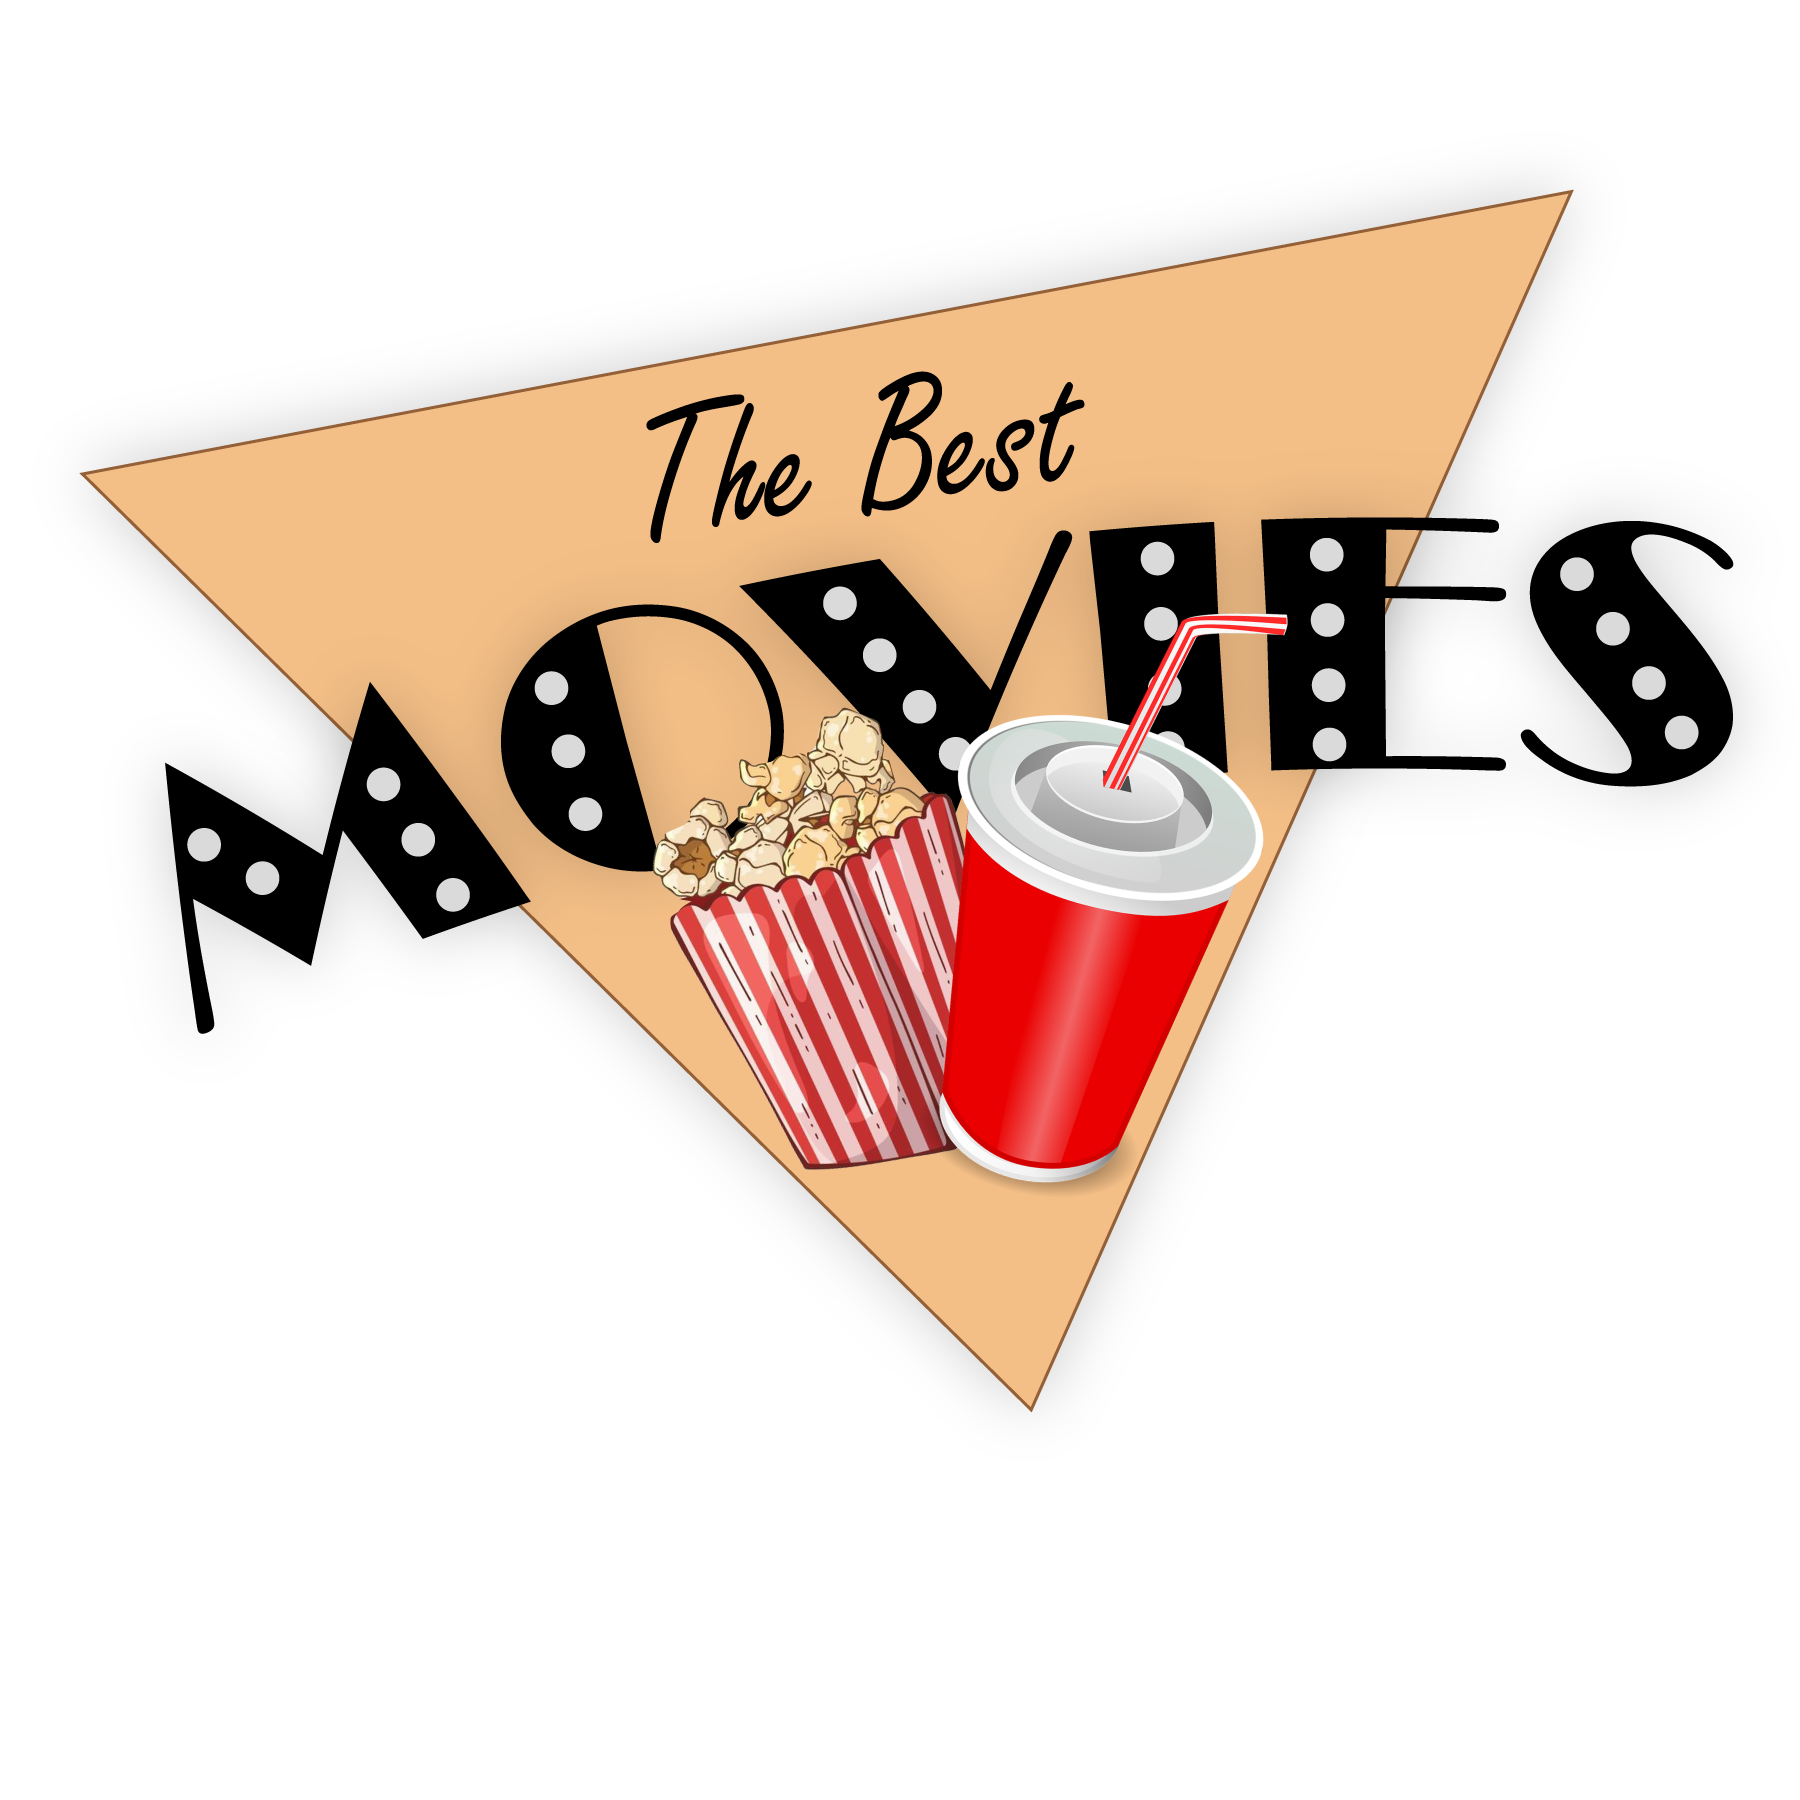
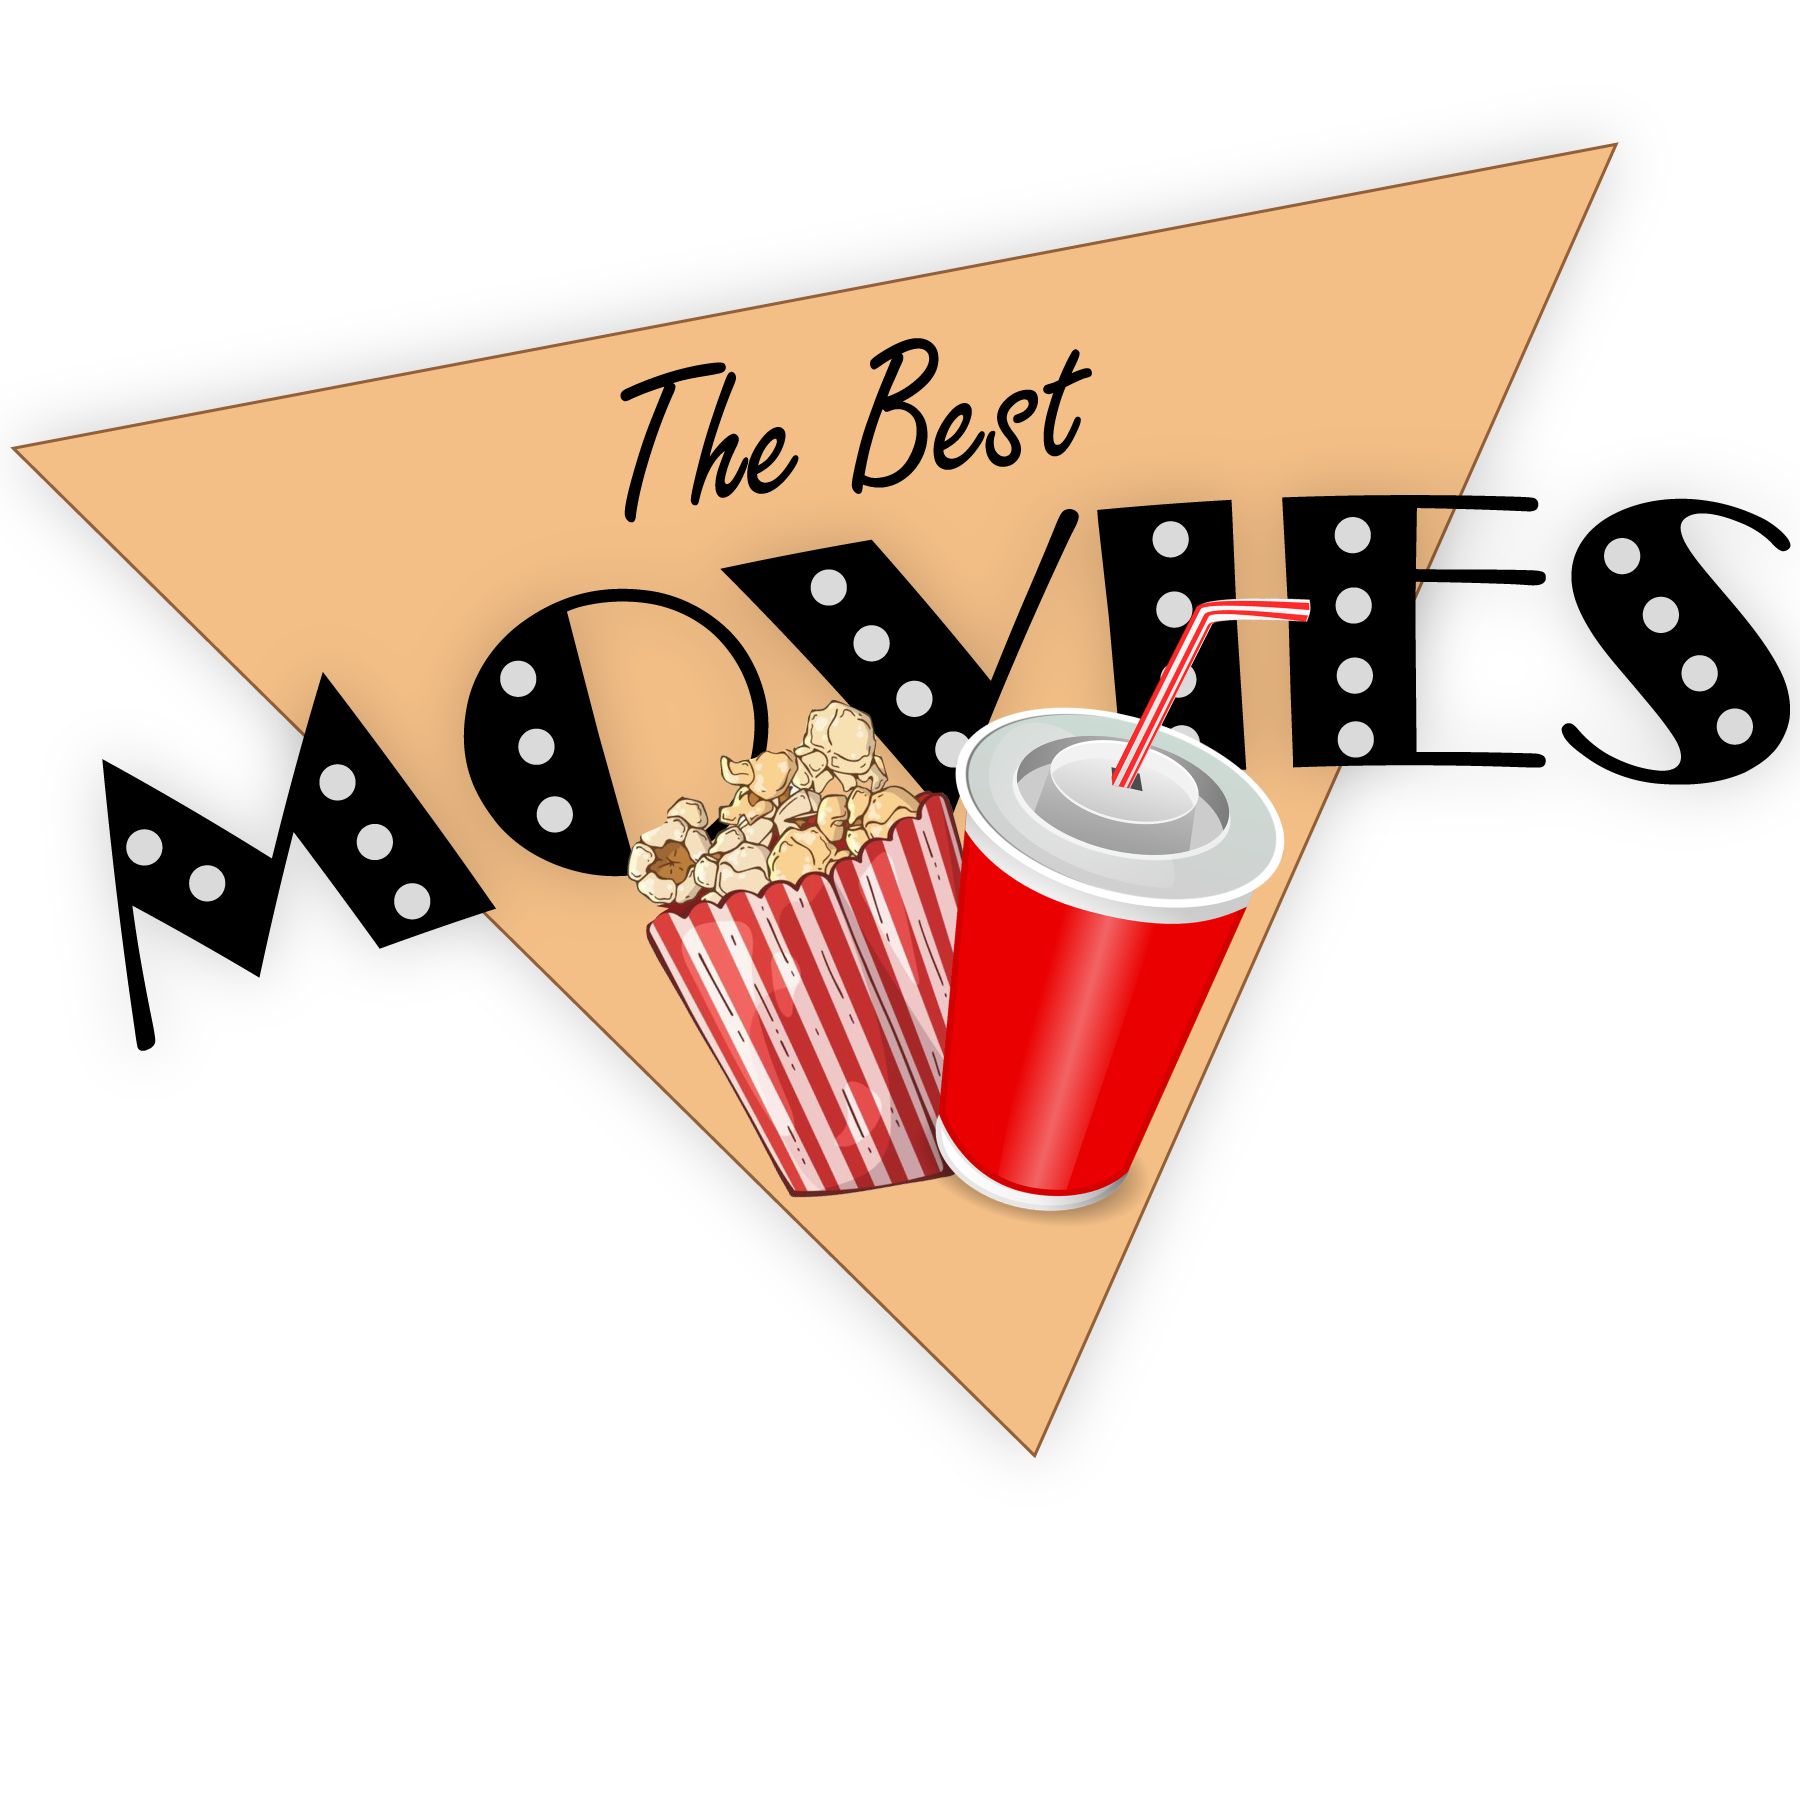
Improves structure, Adds Movies component

Changed region(s): [[0.0, 0.0622, 0.9956, 0.8089]]

diff --git a/resources/sass/partials/_movies.scss b/resources/sass/partials/_movies.scss
@@ -1,27 +1,11 @@
-// .container {
-//     display: flex;
-//     justify-content: center;
-//     flex-wrap: wrap;
-//     .card {
-//         width: 300px;
-//         height: 500px;
-//         img {
-//             width: 100%;
-//         }
-//     }
-// }
-.header{
+.header {
     display: flex;
     justify-content: space-between;
-    .title {
-        margin-left: 200px;
-        width: 700px;
-    }
     .image {
+        margin: 0 100px 0 200px;
         width: 700px;
     }
 }
-
 
 .container {
     width: 1300px;
@@ -30,24 +14,22 @@
     justify-content: space-between;
     flex-wrap: wrap;
     .card {
-      width: 250px;
-      margin-bottom: 20px;
-      cursor: pointer;
-      h3 {
-        text-transform: uppercase;
-      }
-      .card-image {
-          border-radius: 10px;
-        margin: 20px 0 15px 0;
-        height: 350px;
-        overflow: hidden;
-        img {
-          width: 100%;
+        width: 250px;
+        margin-bottom: 20px;
+        cursor: pointer;
+        h3 {
+            text-transform: uppercase;
         }
-      }
-      .text {
-          margin: 4px 0;
-      }
+        img {
+            margin: 20px 0 15px 0;
+            overflow: hidden;
+            border-radius: 10px;
+            width: 250px;
+            height: 350px;
+            object-fit: cover;
+        }
+        .text {
+            margin: 5px 0;
+        }
     }
-  }
-
+}

diff --git a/public/css/app.css b/public/css/app.css
@@ -7,7 +7,7 @@
 body {
   font-family: "Roboto", sans-serif;
   background: linear-gradient(180deg, #a13333 28%, #0f0f0f 28%);
-  color: #fff6d1;
+  color: #fff;
 }
 
 .header {
@@ -15,12 +15,8 @@ body {
   justify-content: space-between;
 }
 
-.header .title {
-  margin-left: 200px;
-  width: 700px;
-}
-
 .header .image {
+  margin: 0 100px 0 200px;
   width: 700px;
 }
 
@@ -42,18 +38,17 @@ body {
   text-transform: uppercase;
 }
 
-.container .card .card-image {
-  border-radius: 10px;
+.container .card img {
   margin: 20px 0 15px 0;
-  height: 350px;
   overflow: hidden;
-}
-
-.container .card .card-image img {
-  width: 100%;
+  border-radius: 10px;
+  width: 250px;
+  height: 350px;
+  -o-object-fit: cover;
+     object-fit: cover;
 }
 
 .container .card .text {
-  margin: 4px 0;
+  margin: 5px 0;
 }
 

diff --git a/resources/sass/app.scss b/resources/sass/app.scss
@@ -7,7 +7,7 @@
 body {
     font-family: 'Roboto', sans-serif;
     background: linear-gradient(180deg, rgba(161,51,51,1) 28%, #0f0f0f 28%);
-    color: #fff6d1;
+    color: #fff;
 }
 
 

diff --git a/resources/views/home.blade.php b/resources/views/home.blade.php
@@ -9,21 +9,10 @@
 </head>
 <body>
     <header class="header">
-    <img class="title" src="/img/title.png" alt="">
+    <img class="image" src="/img/title.png" alt="">
     <img class="image" src="/img/movies_.png" alt="">
     </header>
-    <div class="container">
-        @foreach($data as $movie)
-        <div class="card">
-            <div class="card-image">
-                <img src="{{$movie->url}}" alt="">
-            </div>
-            <h3 class="text">{{$movie->title}}</h3>
-            <h4 class="text">"{{$movie->original_title}}"</h4>
-            <p class="text">"{{$movie->date}}"</p>
-        </div>
-        @endforeach
-    </div>
+    @include('partials.movies');
     
 </body>
 </html>

diff --git a/resources/views/partials/movies.blade.php b/resources/views/partials/movies.blade.php
@@ -1,0 +1,11 @@
+<div class="container">
+    @foreach($data as $movie)
+    <div class="card">
+        <img src="{{$movie->url}}" alt="">
+        <h3 class="text">{{$movie->title}}</h3>
+        <h4 class="text">"{{$movie->original_title}}"</h4>
+        <p class="text">"{{$movie->date}}"</p>
+        <p class="text"><i>{{$movie->nationality}}</i></p>
+    </div>
+    @endforeach
+</div>

diff --git a/app/Http/Controllers/HomeController.php b/app/Http/Controllers/HomeController.php
@@ -8,8 +8,7 @@ use Illuminate\Http\Request;
 class HomeController extends Controller
 {
     public function index() {
-        $data = Movie::all();
-        return view('home', compact('data'));
+        return view('home', ['data' => Movie::all()]);
     }
     
 }
